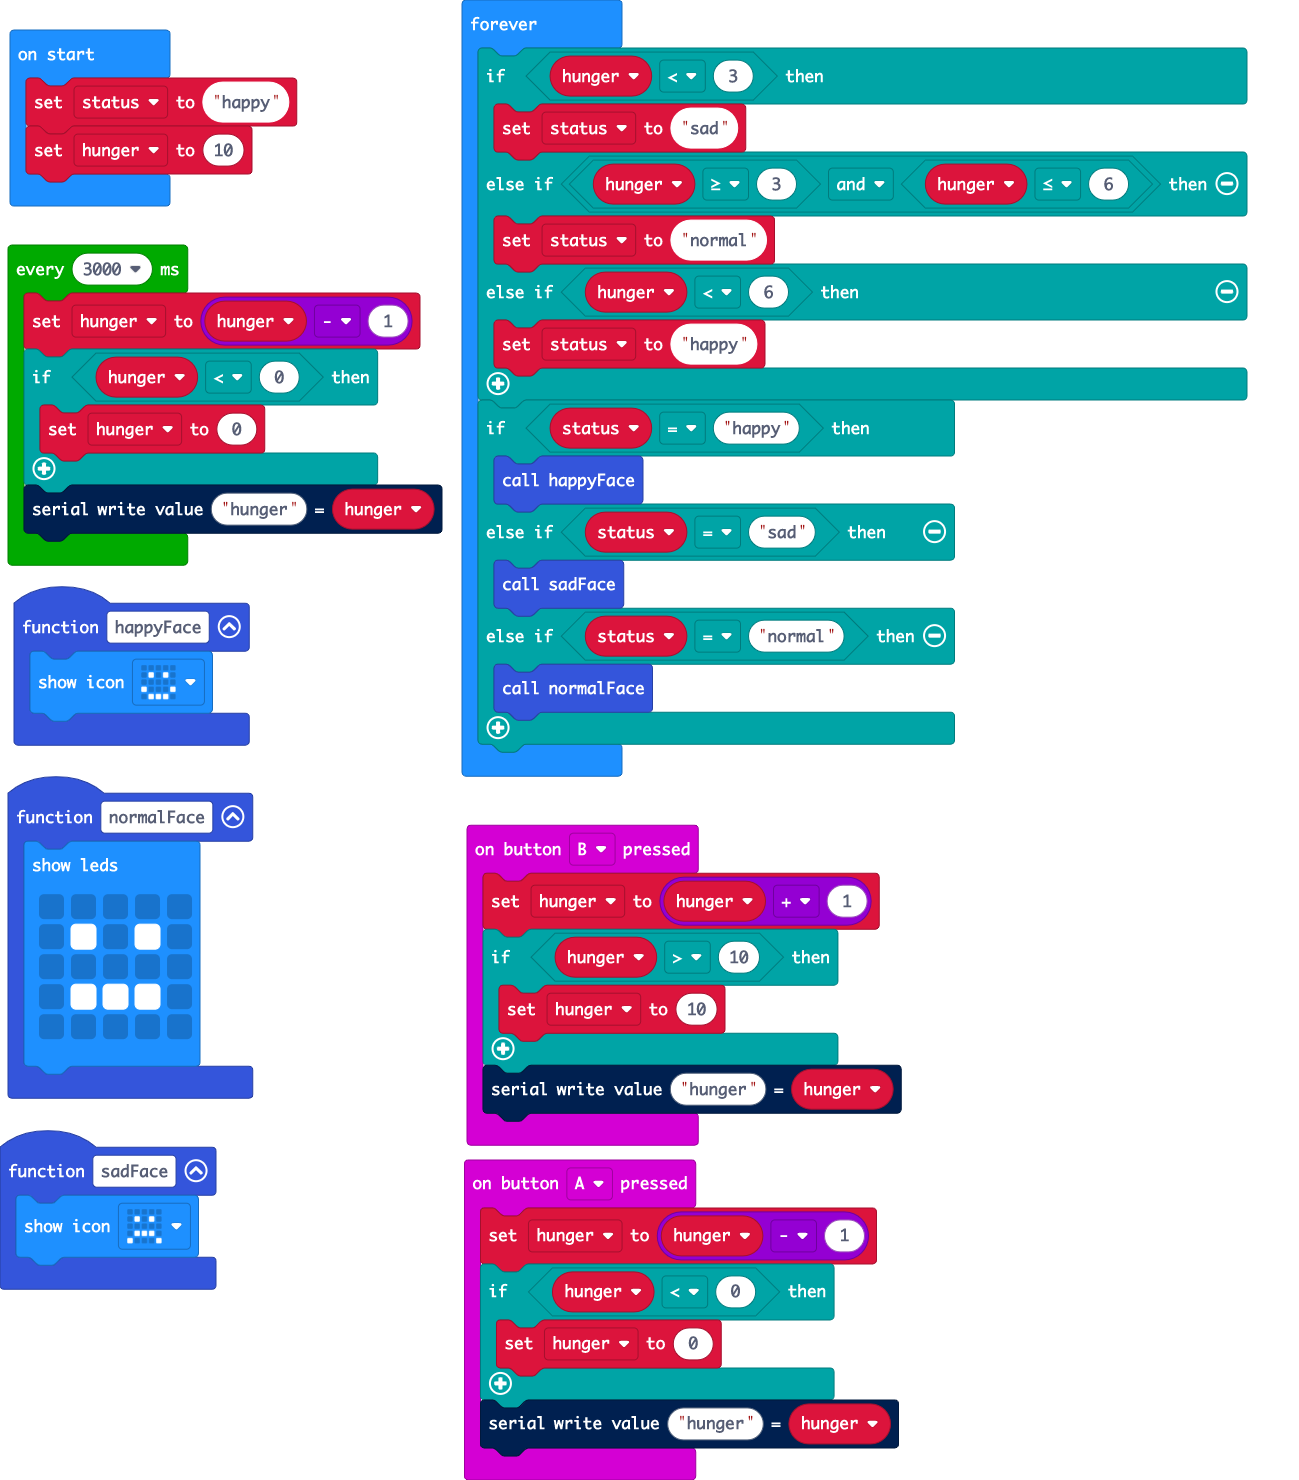
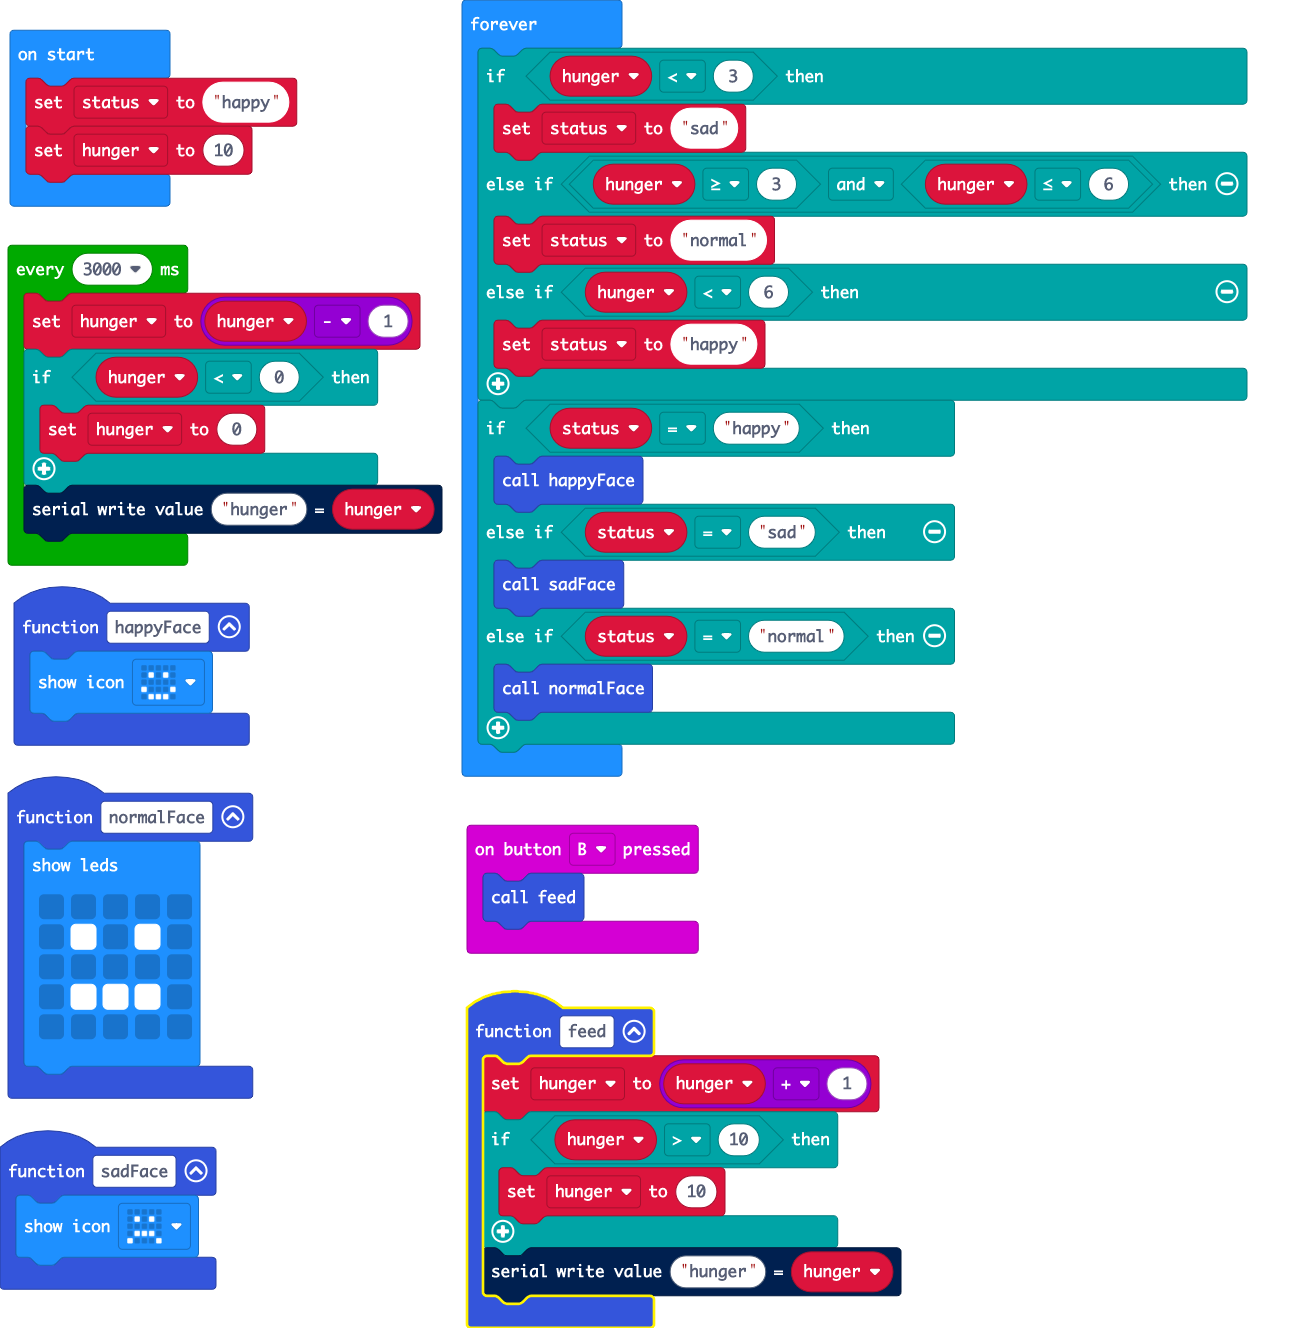
Update pxt.json, main.blocks, main.ts

diff --git a/main.ts b/main.ts
@@ -7,23 +7,19 @@ function normalFace () {
         . . . . .
         `)
 }
-input.onButtonPressed(Button.A, function () {
-    hunger = hunger - 1
-    if (hunger < 0) {
-        hunger = 0
-    }
-    serial.writeValue("hunger", hunger)
-})
 function sadFace () {
     basic.showIcon(IconNames.Sad)
 }
 input.onButtonPressed(Button.B, function () {
+    feed()
+})
+function feed () {
     hunger = hunger + 1
     if (hunger > 10) {
         hunger = 10
     }
     serial.writeValue("hunger", hunger)
-})
+}
 function happyFace () {
     basic.showIcon(IconNames.Happy)
 }
